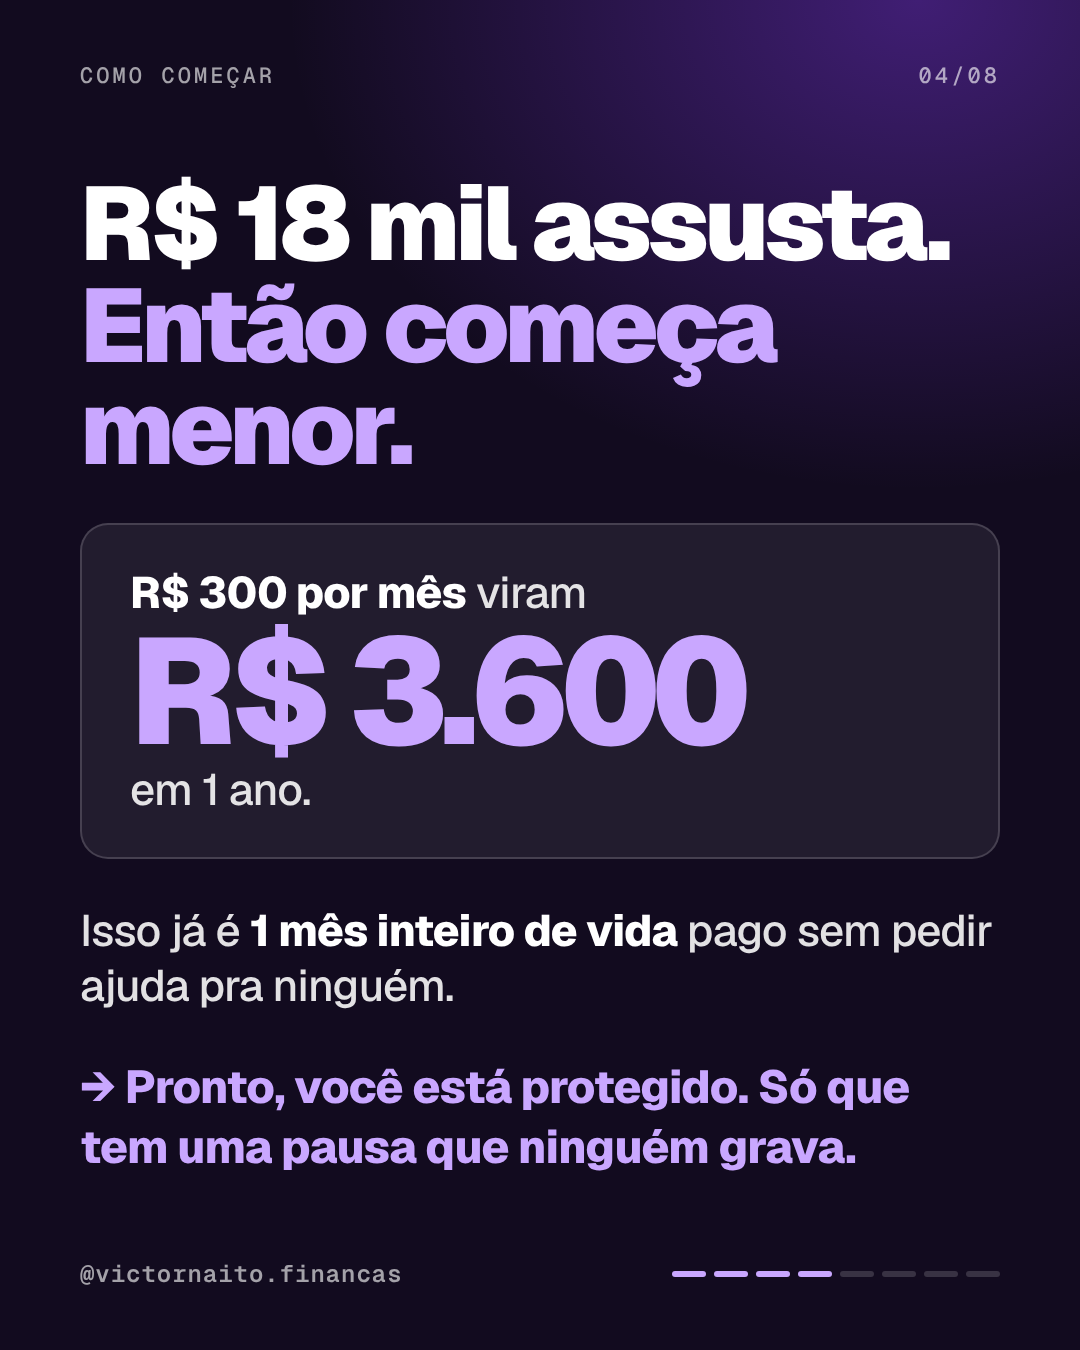
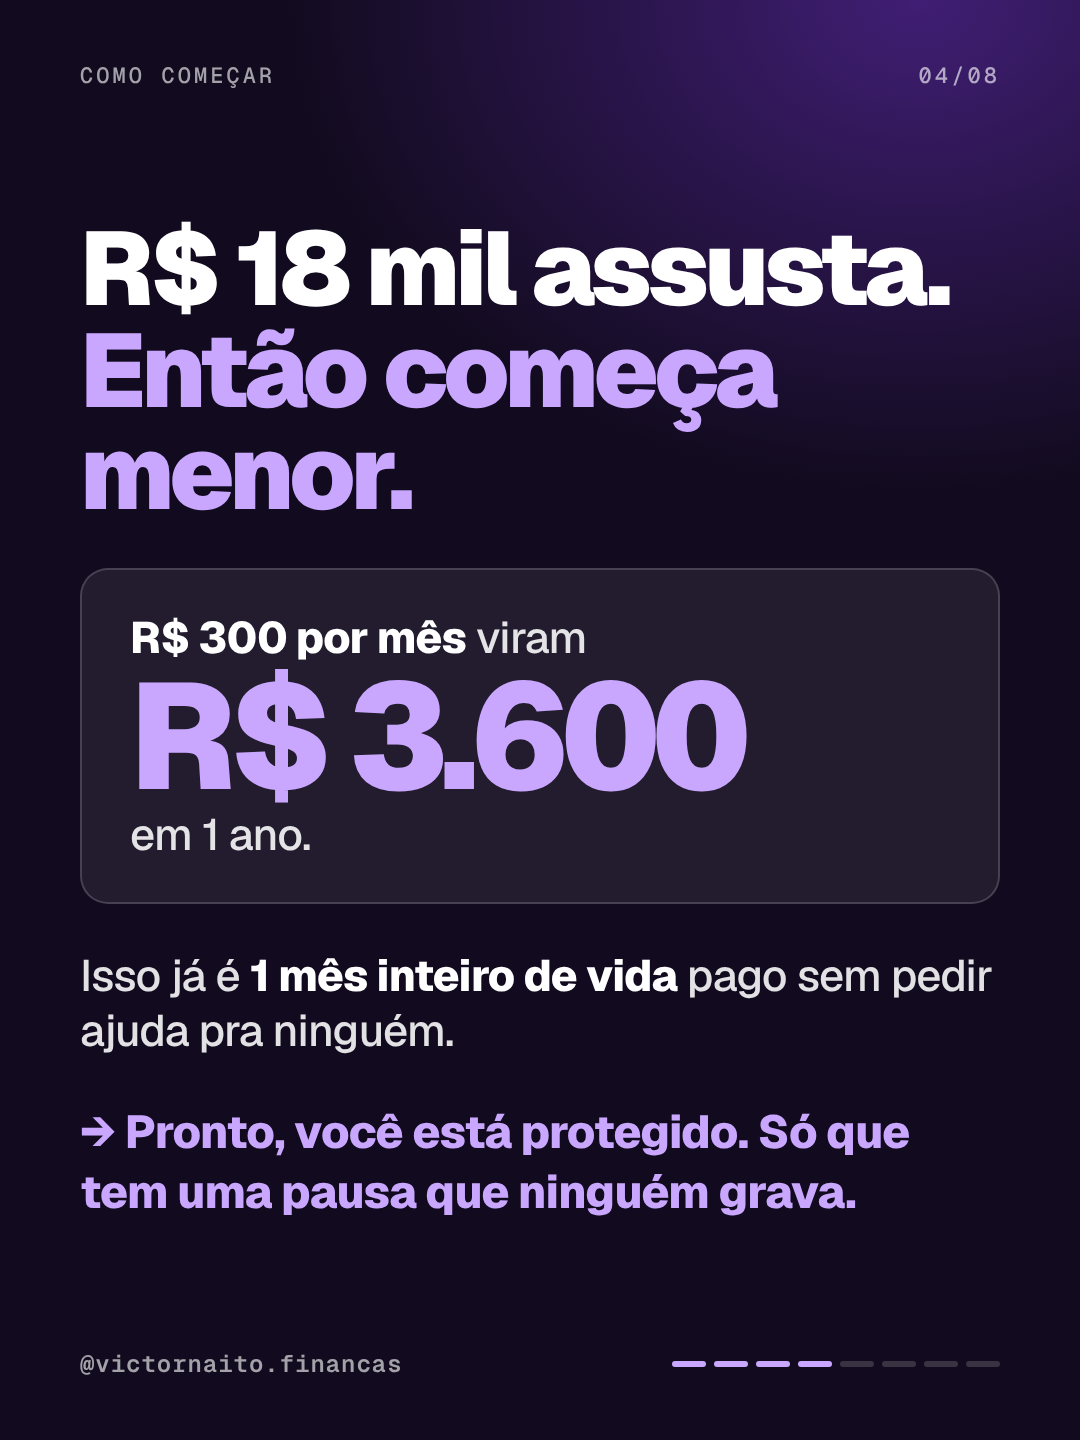
Carrossel BTS em 1080x1440 e regra do formato no CLAUDE.md
Claude-Session: https://claude.ai/code/session_01S962yHBN9nh6vkU1Z5TodD

diff --git a/carrosseis/bts-reserva/src/slide-01.html b/carrosseis/bts-reserva/src/slide-01.html
@@ -12,7 +12,7 @@
   --mudo: rgba(255,255,255,.62); --fio: rgba(255,255,255,.16); --margem: 80px;
 }
 * { margin: 0; padding: 0; box-sizing: border-box; }
-html, body { width: 1080px; height: 1350px; overflow: hidden; background: var(--noite); }
+html, body { width: 1080px; height: 1440px; overflow: hidden; background: var(--noite); }
 body { -webkit-font-smoothing: antialiased; font-family: 'Geist'; color: var(--branco); }
 #quadro { position: absolute; inset: 0; overflow: hidden;
   background: radial-gradient(900px 700px at 85% 0%, rgba(139,61,255,.38), transparent 70%), var(--noite); }
@@ -39,7 +39,7 @@ body { -webkit-font-smoothing: antialiased; font-family: 'Geist'; color: var(--b
 .numero { font-weight: 900; font-size: 150px; line-height: .95; letter-spacing: -0.055em; font-variant-numeric: tabular-nums; }
 .nota { font: 500 24px/1.4 'Geist Mono'; color: var(--mudo); }
 
-.foto { position: absolute; left: -135px; top: 0; width: 1350px; height: 1350px; object-fit: cover; }
+.foto { position: absolute; left: -180px; top: 0; width: 1440px; height: 1440px; object-fit: cover; }
 .sombra { position: absolute; inset: 0;
   background: linear-gradient(180deg, rgba(18,11,31,.55) 0%, rgba(18,11,31,0) 16%, rgba(18,11,31,0) 34%,
     rgba(18,11,31,.82) 52%, rgba(18,11,31,.97) 66%, var(--noite) 100%); }

diff --git a/carrosseis/bts-reserva/src/slide-02.html b/carrosseis/bts-reserva/src/slide-02.html
@@ -12,7 +12,7 @@
   --mudo: rgba(255,255,255,.62); --fio: rgba(255,255,255,.16); --margem: 80px;
 }
 * { margin: 0; padding: 0; box-sizing: border-box; }
-html, body { width: 1080px; height: 1350px; overflow: hidden; background: var(--noite); }
+html, body { width: 1080px; height: 1440px; overflow: hidden; background: var(--noite); }
 body { -webkit-font-smoothing: antialiased; font-family: 'Geist'; color: var(--branco); }
 #quadro { position: absolute; inset: 0; overflow: hidden;
   background: radial-gradient(900px 700px at 85% 0%, rgba(139,61,255,.38), transparent 70%), var(--noite); }

diff --git a/carrosseis/bts-reserva/src/slide-03.html b/carrosseis/bts-reserva/src/slide-03.html
@@ -12,7 +12,7 @@
   --mudo: rgba(255,255,255,.62); --fio: rgba(255,255,255,.16); --margem: 80px;
 }
 * { margin: 0; padding: 0; box-sizing: border-box; }
-html, body { width: 1080px; height: 1350px; overflow: hidden; background: var(--noite); }
+html, body { width: 1080px; height: 1440px; overflow: hidden; background: var(--noite); }
 body { -webkit-font-smoothing: antialiased; font-family: 'Geist'; color: var(--branco); }
 #quadro { position: absolute; inset: 0; overflow: hidden;
   background: radial-gradient(900px 700px at 85% 0%, rgba(139,61,255,.38), transparent 70%), var(--noite); }

diff --git a/carrosseis/bts-reserva/src/slide-04.html b/carrosseis/bts-reserva/src/slide-04.html
@@ -12,7 +12,7 @@
   --mudo: rgba(255,255,255,.62); --fio: rgba(255,255,255,.16); --margem: 80px;
 }
 * { margin: 0; padding: 0; box-sizing: border-box; }
-html, body { width: 1080px; height: 1350px; overflow: hidden; background: var(--noite); }
+html, body { width: 1080px; height: 1440px; overflow: hidden; background: var(--noite); }
 body { -webkit-font-smoothing: antialiased; font-family: 'Geist'; color: var(--branco); }
 #quadro { position: absolute; inset: 0; overflow: hidden;
   background: radial-gradient(900px 700px at 85% 0%, rgba(139,61,255,.38), transparent 70%), var(--noite); }

diff --git a/carrosseis/bts-reserva/src/slide-05.html b/carrosseis/bts-reserva/src/slide-05.html
@@ -12,7 +12,7 @@
   --mudo: rgba(255,255,255,.62); --fio: rgba(255,255,255,.16); --margem: 80px;
 }
 * { margin: 0; padding: 0; box-sizing: border-box; }
-html, body { width: 1080px; height: 1350px; overflow: hidden; background: var(--noite); }
+html, body { width: 1080px; height: 1440px; overflow: hidden; background: var(--noite); }
 body { -webkit-font-smoothing: antialiased; font-family: 'Geist'; color: var(--branco); }
 #quadro { position: absolute; inset: 0; overflow: hidden;
   background: radial-gradient(900px 700px at 85% 0%, rgba(139,61,255,.38), transparent 70%), var(--noite); }

diff --git a/carrosseis/bts-reserva/src/slide-06.html b/carrosseis/bts-reserva/src/slide-06.html
@@ -12,7 +12,7 @@
   --mudo: rgba(255,255,255,.62); --fio: rgba(255,255,255,.16); --margem: 80px;
 }
 * { margin: 0; padding: 0; box-sizing: border-box; }
-html, body { width: 1080px; height: 1350px; overflow: hidden; background: var(--noite); }
+html, body { width: 1080px; height: 1440px; overflow: hidden; background: var(--noite); }
 body { -webkit-font-smoothing: antialiased; font-family: 'Geist'; color: var(--branco); }
 #quadro { position: absolute; inset: 0; overflow: hidden;
   background: radial-gradient(900px 700px at 85% 0%, rgba(139,61,255,.38), transparent 70%), var(--noite); }

diff --git a/carrosseis/bts-reserva/src/slide-07.html b/carrosseis/bts-reserva/src/slide-07.html
@@ -12,7 +12,7 @@
   --mudo: rgba(255,255,255,.62); --fio: rgba(255,255,255,.16); --margem: 80px;
 }
 * { margin: 0; padding: 0; box-sizing: border-box; }
-html, body { width: 1080px; height: 1350px; overflow: hidden; background: var(--noite); }
+html, body { width: 1080px; height: 1440px; overflow: hidden; background: var(--noite); }
 body { -webkit-font-smoothing: antialiased; font-family: 'Geist'; color: var(--branco); }
 #quadro { position: absolute; inset: 0; overflow: hidden;
   background: radial-gradient(900px 700px at 85% 0%, rgba(139,61,255,.38), transparent 70%), var(--noite); }

diff --git a/carrosseis/bts-reserva/src/slide-08.html b/carrosseis/bts-reserva/src/slide-08.html
@@ -12,7 +12,7 @@
   --mudo: rgba(255,255,255,.62); --fio: rgba(255,255,255,.16); --margem: 80px;
 }
 * { margin: 0; padding: 0; box-sizing: border-box; }
-html, body { width: 1080px; height: 1350px; overflow: hidden; background: var(--noite); }
+html, body { width: 1080px; height: 1440px; overflow: hidden; background: var(--noite); }
 body { -webkit-font-smoothing: antialiased; font-family: 'Geist'; color: var(--branco); }
 #quadro { position: absolute; inset: 0; overflow: hidden;
   background: radial-gradient(900px 700px at 85% 0%, rgba(139,61,255,.38), transparent 70%), var(--noite); }

diff --git a/carrosseis/bts-reserva/src/gerar.py b/carrosseis/bts-reserva/src/gerar.py
@@ -17,7 +17,7 @@ BASE_CSS = """
   --mudo: rgba(255,255,255,.62); --fio: rgba(255,255,255,.16); --margem: 80px;
 }
 * { margin: 0; padding: 0; box-sizing: border-box; }
-html, body { width: 1080px; height: 1350px; overflow: hidden; background: var(--noite); }
+html, body { width: 1080px; height: 1440px; overflow: hidden; background: var(--noite); }
 body { -webkit-font-smoothing: antialiased; font-family: 'Geist'; color: var(--branco); }
 #quadro { position: absolute; inset: 0; overflow: hidden;
   background: radial-gradient(900px 700px at 85% 0%, rgba(139,61,255,.38), transparent 70%), var(--noite); }
@@ -68,7 +68,7 @@ def moldura(n, rotulo):
 
 
 CAPA_CSS = """
-.foto { position: absolute; left: -135px; top: 0; width: 1350px; height: 1350px; object-fit: cover; }
+.foto { position: absolute; left: -180px; top: 0; width: 1440px; height: 1440px; object-fit: cover; }
 .sombra { position: absolute; inset: 0;
   background: linear-gradient(180deg, rgba(18,11,31,.55) 0%, rgba(18,11,31,0) 16%, rgba(18,11,31,0) 34%,
     rgba(18,11,31,.82) 52%, rgba(18,11,31,.97) 66%, var(--noite) 100%); }

diff --git a/CLAUDE.md b/CLAUDE.md
@@ -1,0 +1,3 @@
+# Carrosséis @victornaito.financas
+
+- Todo carrossel é exportado em **1080 x 1440 px** (proporção 3:4), sempre. Nada de 1080x1350.
